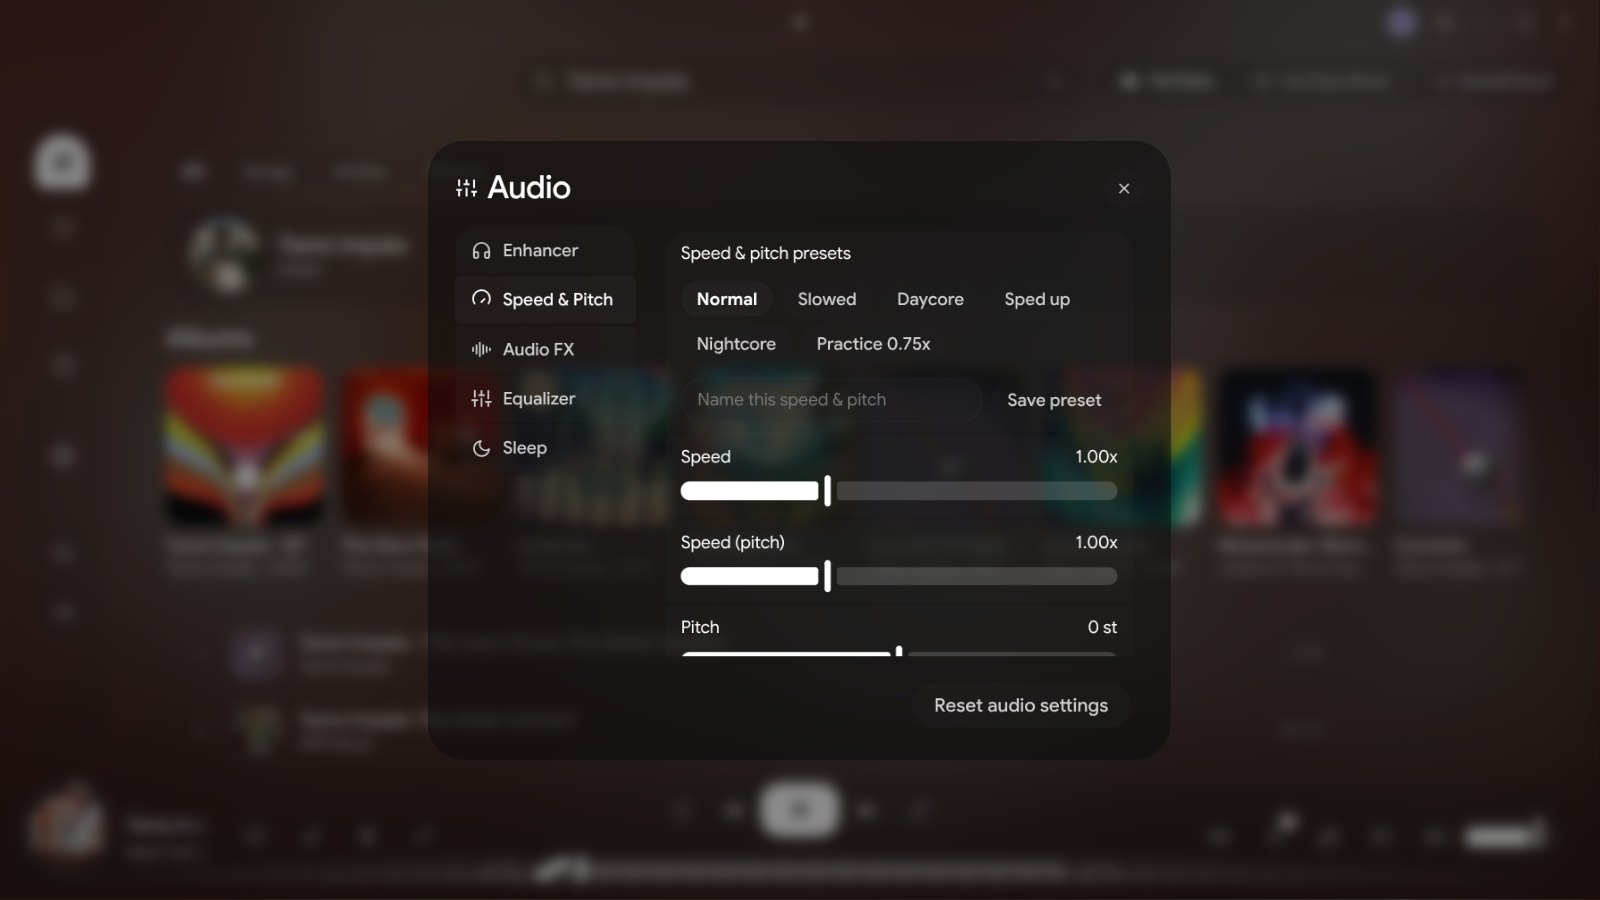
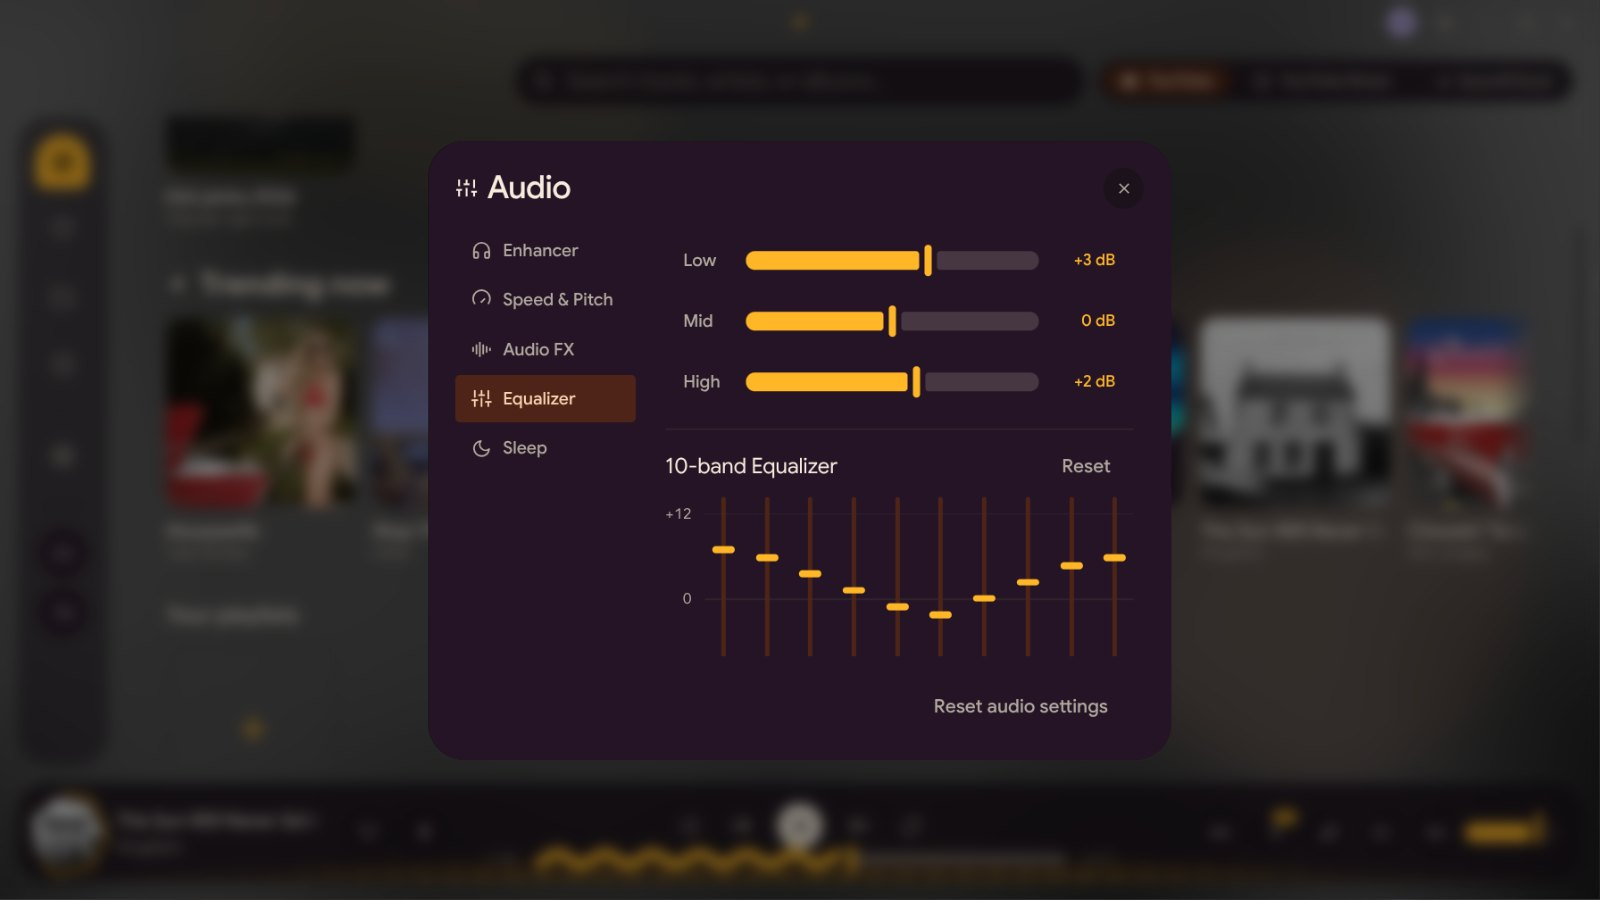
Uriel: current features and new screenshots; link previews, sitemap and a no-JavaScript note; corner buttons step aside on phones
- Uriel's page describes the app as it is now (native Android player, faster and steadier song starts, bigger library storage) with four screenshots from the current build
- Each page's copy of index.html carries its own title, description and preview picture (scripts/build-pages.mjs, run by the deploy), which also writes sitemap.xml and robots.txt
- Without JavaScript the site says so instead of showing a blank page
- On phones the pause and theme buttons slide away while scrolling down, so they no longer cover the text

diff --git a/js/content.js b/js/content.js
@@ -100,10 +100,10 @@ export const projects = [
     description: "A music player for computers and phones that streams, downloads and keeps a local library.",
     image: "/images/uriel.jpg",
     images: [
-      { src: "/images/uriel.jpg", alt: "Uriel's home screen: a My Wave mix, recently played songs and a row of trending songs" },
+      { src: "/images/uriel.jpg", alt: "Uriel's home screen: a row of trending songs above the player bar, with a song playing" },
+      { src: "/images/uriel-lyrics.jpg", alt: "The Now playing panel open beside the home screen, with the cover and the current lyric line" },
       { src: "/images/uriel-karaoke.jpg", alt: "Fullscreen karaoke: album art and controls on the left, synced lyrics on the right" },
-      { src: "/images/uriel-album.jpg", alt: "An album page with the cover, artist and year beside its track list" },
-      { src: "/images/uriel-audio.jpg", alt: "The Audio panel with speed and pitch presets and sliders" },
+      { src: "/images/uriel-audio.jpg", alt: "The Audio panel on its Equalizer tab, with a ten-band curve dialled in" },
     ],
     body: `
       <p>Uriel is a music player for Windows, macOS, Linux, Android and iPhone. It streams from YouTube,
@@ -112,7 +112,7 @@ export const projects = [
       <p>It's my fork of <a href="https://github.com/cloverscripts/riff-muriel">Muriel</a> by cloverscripts,
       which is based on <a href="https://github.com/rootscripts/riff">Riff</a> by rootscripts. I started out
       fixing bugs and adding features for myself. Once it had changed enough, I gave it its own name so it
-      installs next to Muriel instead of replacing it.</p>
+      installs next to Muriel instead of replacing it. It was called Mural for its first few releases.</p>
 
       <h2>What it does</h2>
       <ul>
@@ -128,27 +128,40 @@ export const projects = [
 
       <h2>What I added</h2>
       <ul>
+        <li><strong>A native player on Android.</strong> Songs play through Android's own media player
+        instead of a web page, so music keeps going with the screen off, and the lock screen, notification
+        and earbud buttons all work. A tap on your earbuds starts the last song even when Uriel is closed.
+        The equalizer, effects and crossfade run in the native player too.</li>
+        <li><strong>Songs that start faster and fail less.</strong> Uriel keeps track of which source is
+        working and tries them in order, so when YouTube blocks a connection a song starts from another
+        source in a couple of seconds, and one that can't be found says so right away. A stream that dies mid-song picks up again,
+        and you can play through your own YouTube sign-in if YouTube asks for one.</li>
         <li><strong>In-app updates.</strong> Uriel downloads new versions itself and checks each file against
         GitHub's checksum. It restarts into the new version on Windows, macOS and Linux and opens the installer
         on Android.</li>
         <li><strong>Music already on your device.</strong> On a computer it finds songs in your Music and
         Downloads folders and plays them where they are, without copying them. On Android it reads the
         phone's music library, and on iPhone it reads Uriel's folder in the Files app.</li>
-        <li><strong>Offline markers.</strong> A small arrow appears next to every song that plays without
-        internet.</li>
-        <li><strong>A cleaner phone app.</strong> Each version only shows the settings that work on it, so
-        phones no longer show desktop-only options.</li>
+        <li><strong>Better offline.</strong> A small arrow marks every song that plays without internet, and
+        saved songs start at once instead of searching online first.</li>
+        <li><strong>A bigger, safer library.</strong> Playlists, favorites and history moved to storage
+        without the old 5 MB limit, and a failed load can no longer wipe them.</li>
+        <li><strong>A tidier interface.</strong> The player bar has centred, Spotify-style controls, the app
+        opens about a second sooner and in your chosen theme, and each version only shows the settings that
+        work on it.</li>
         <li><strong>Bug fixes.</strong> I reviewed the whole codebase twice and fixed more than 40 bugs in
-        playback, downloads, sync, track matching and the local server.</li>
+        playback, downloads, sync, track matching and the local server, and I keep fixing the ones people
+        report.</li>
         <li><strong>Moving over from Muriel.</strong> On first start, Uriel copies your Muriel playlists,
         settings and songs and leaves Muriel's own files as they are.</li>
       </ul>
 
       <h2>How it's built</h2>
-      <p>The desktop app runs on Electron and the phone apps use Capacitor. All of them share the same plain
-      JavaScript interface. yt-dlp and ffmpeg handle streams and downloads and install themselves the first
-      time you open the app. Builds for every platform are made by GitHub Actions and published on the
-      Releases page.</p>
+      <p>The desktop app runs on Electron and the phone apps use Capacitor, and they share one JavaScript
+      interface. The code is split into desktop, phone and shared folders. The phone layer is written in
+      TypeScript, and Android's player is native Kotlin on Media3. yt-dlp and ffmpeg handle streams and
+      downloads and install themselves the first time you open the app. Builds for every platform are made
+      by GitHub Actions and published on the Releases page.</p>
     `,
     links: [
       { label: "GitHub", href: "https://github.com/Esperant0s/Uriel" },

diff --git a/js/main.js b/js/main.js
@@ -152,4 +152,22 @@ document.addEventListener("click", (e) => {
 
 window.addEventListener("popstate", () => render(normalise(location.pathname)));
 
+// The corner buttons step aside while you scroll down a page and come back
+// when you scroll up, reach the end, or open the theme menu. Only phones act
+// on the class (style.css), where the buttons would otherwise cover the text.
+const corner = document.querySelector(".corner");
+let lastScroll = window.scrollY;
+window.addEventListener(
+  "scroll",
+  () => {
+    const y = window.scrollY;
+    const atEnd = y + window.innerHeight >= document.documentElement.scrollHeight - 8;
+    const menuOpen = corner.querySelector(".theme-list:not([hidden])");
+    if (Math.abs(y - lastScroll) < 8 && !atEnd) return; // ignore tiny jitters
+    corner.classList.toggle("tucked", y > lastScroll && y > 0 && !atEnd && !menuOpen);
+    lastScroll = y;
+  },
+  { passive: true }
+);
+
 render(currentPath, { animate: false });

diff --git a/style.css b/style.css
@@ -1473,6 +1473,16 @@ img.fade.loaded {
   .corner {
     right: 0.75rem;
     bottom: 0.75rem;
+    transition: transform 0.25s ease, opacity 0.25s;
+  }
+
+  /* On phones the text runs the full width, so the buttons would sit on top of
+     it. They slide away while you scroll down and return when you scroll up
+     (main.js adds the class). Keyboard focus always brings them back. */
+  .corner.tucked:not(:focus-within) {
+    transform: translateY(calc(100% + 1rem));
+    opacity: 0;
+    pointer-events: none;
   }
 
   .theme-button .theme-label {

diff --git a/index.html b/index.html
@@ -94,6 +94,15 @@
 
     <div id="view"></div>
 
+    <!-- The pages are drawn by JavaScript; without it, at least say so. -->
+    <noscript>
+      <main class="page">
+        <h1>Esper</h1>
+        <p>This site needs JavaScript to show its pages. You can still find me on
+        <a href="https://github.com/Esperant0s">GitHub</a>.</p>
+      </main>
+    </noscript>
+
     <!-- Bottom-right controls: pause animations, and the theme menu. -->
     <div class="corner">
       <button id="motion-toggle" class="corner-button" type="button"></button>
